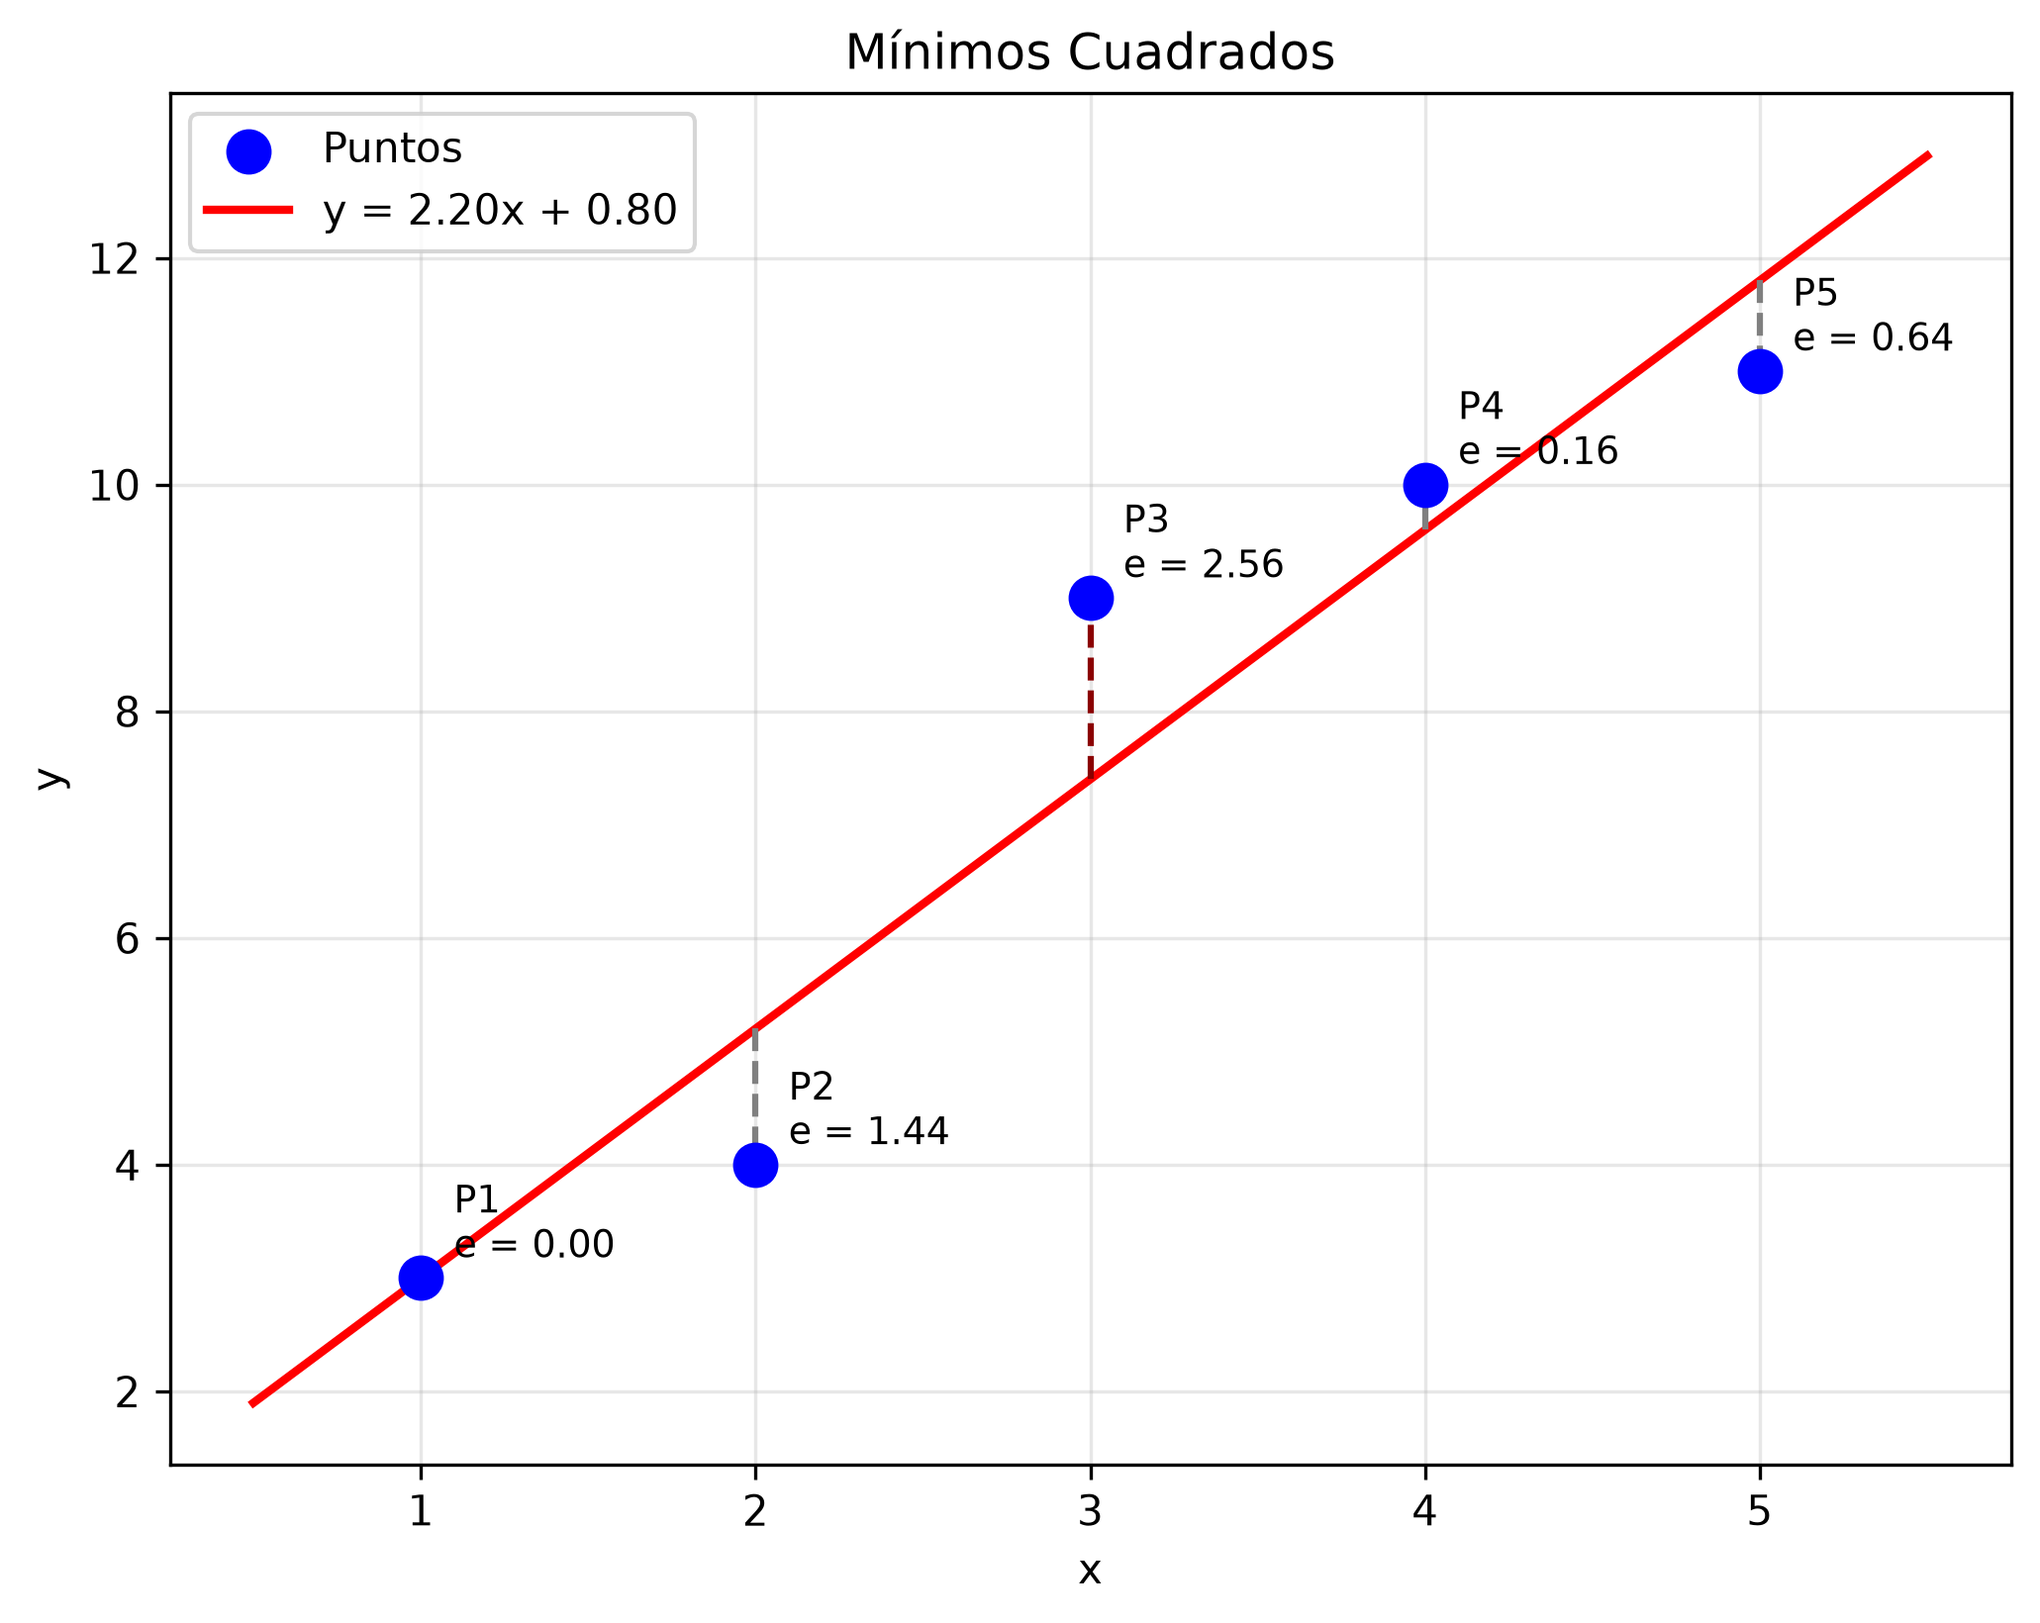
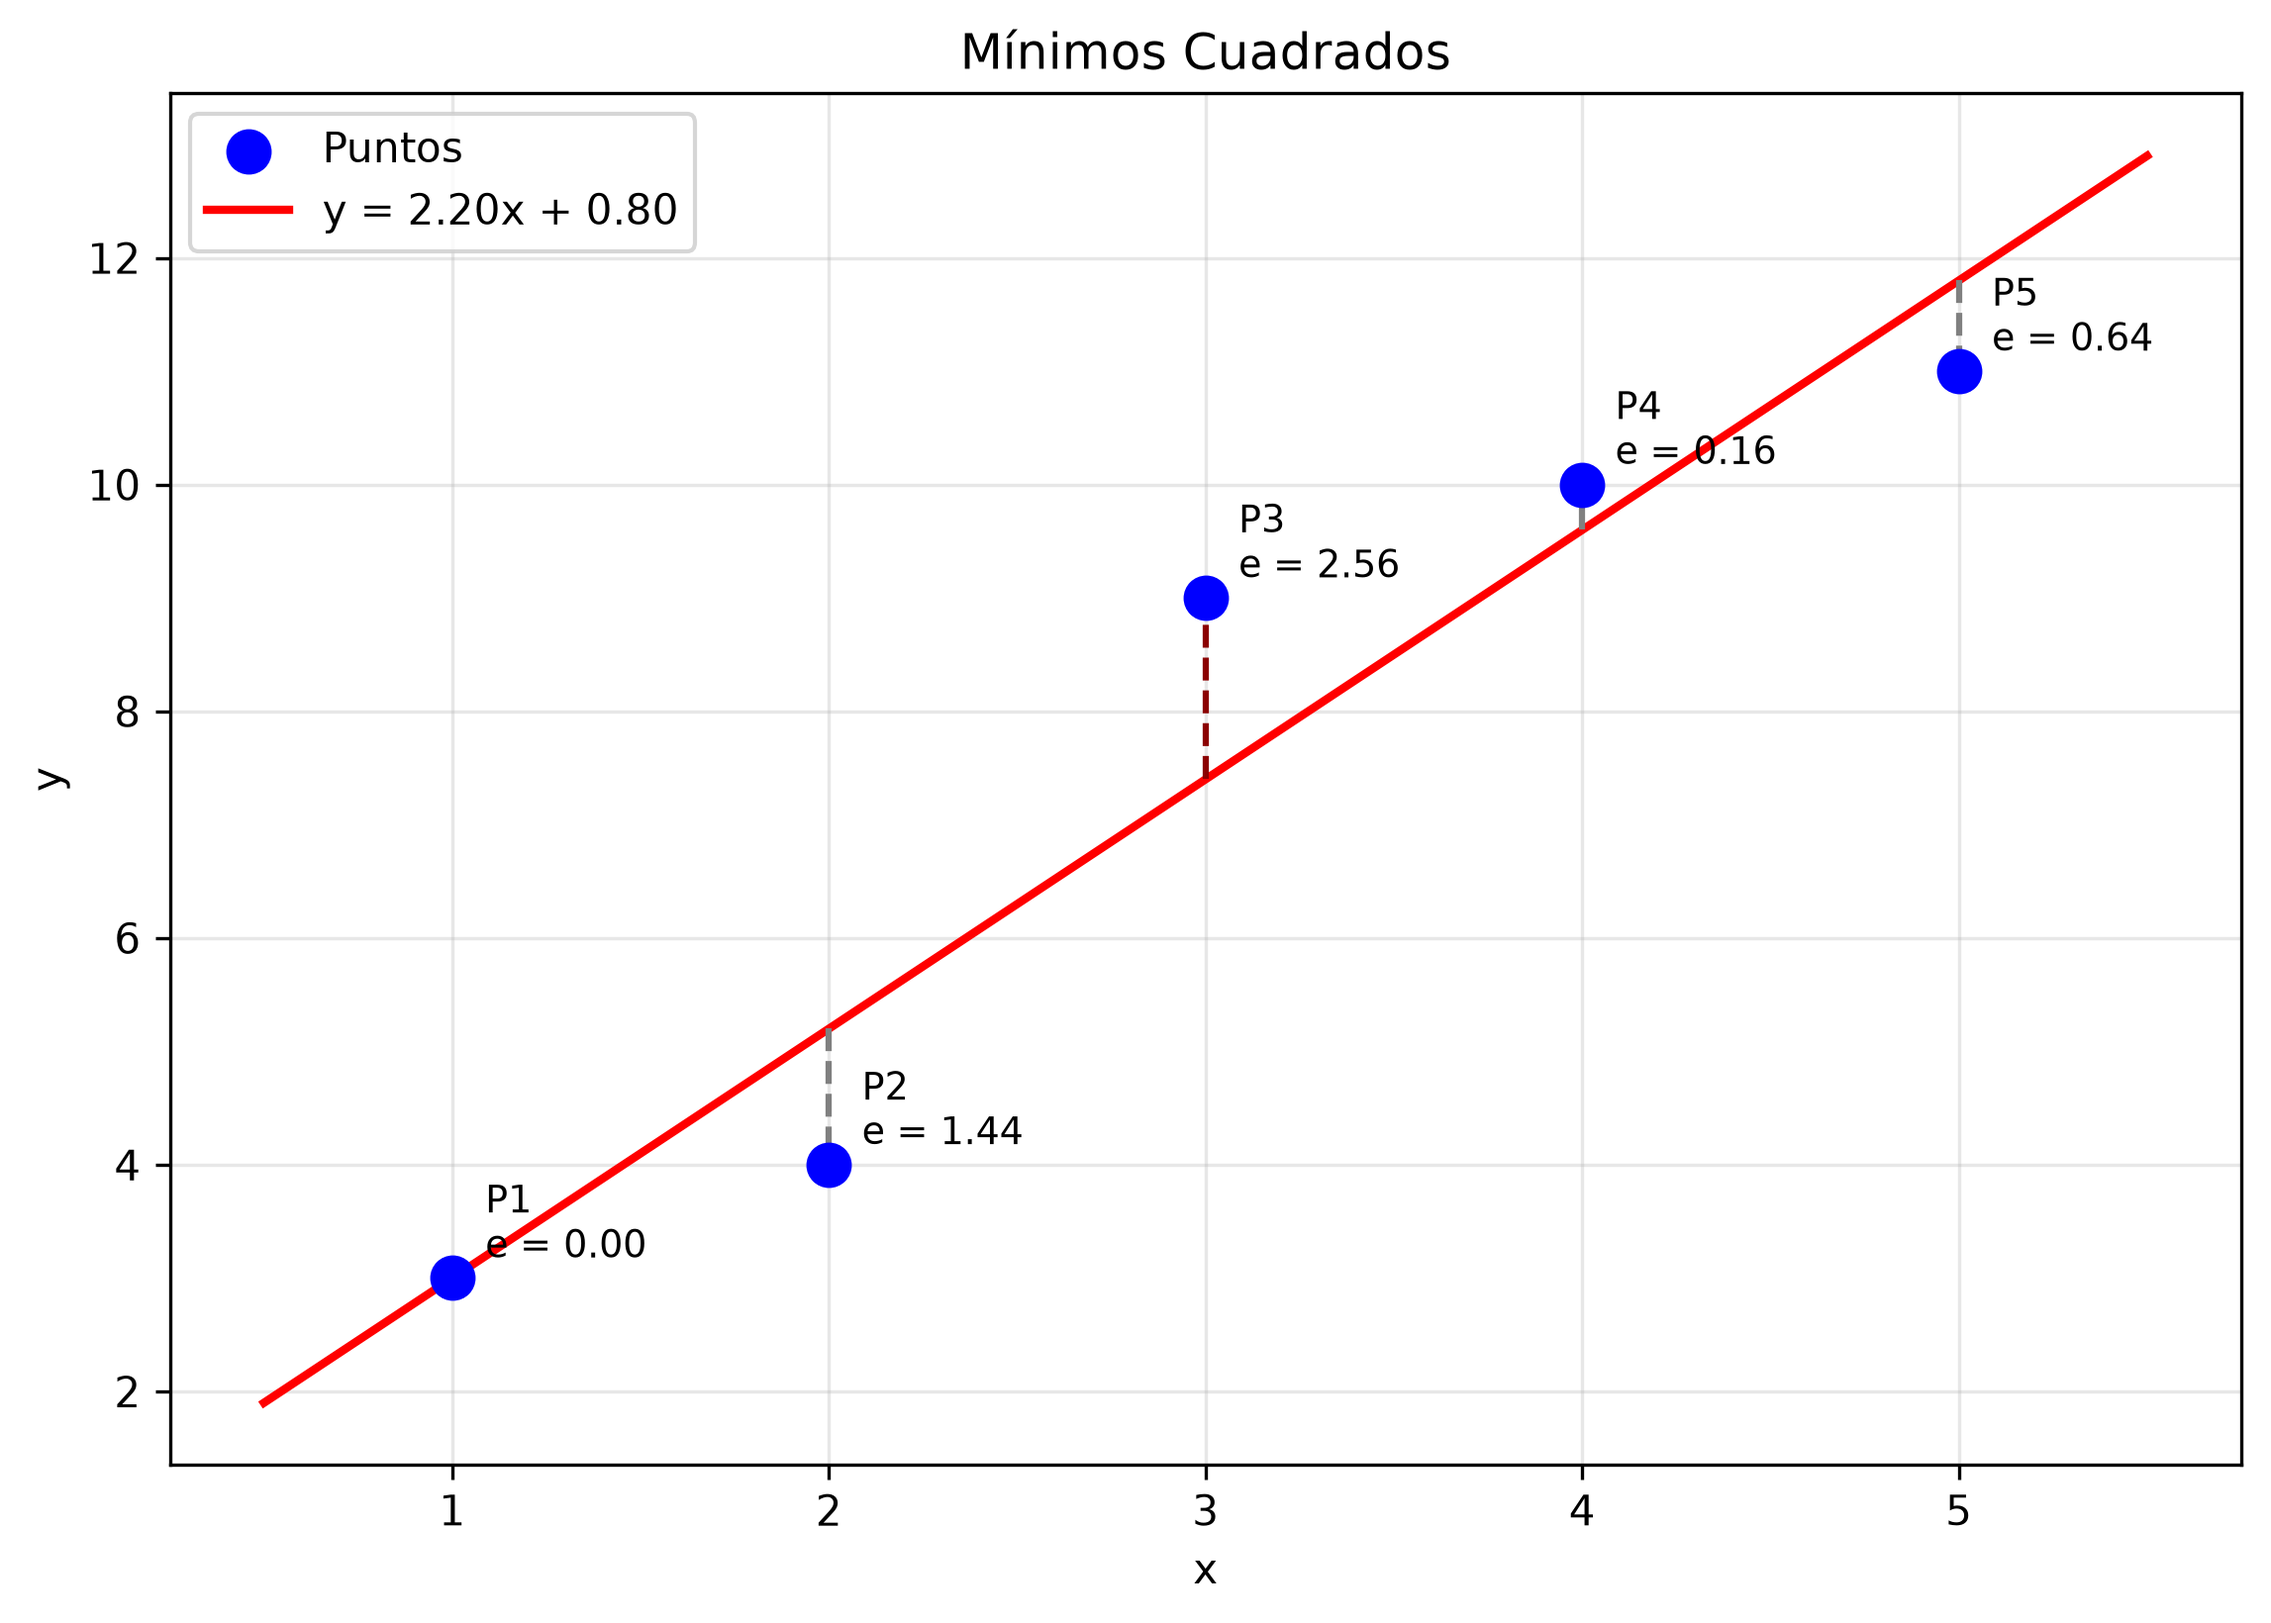
Actualizar prueba

diff --git a/solver2.py b/solver2.py
@@ -17,6 +17,9 @@ datos = np.array([
     [5, 11]
 ])
 
+x = datos[:, 0]  # x = [1,2,3,4,5]
+y = datos[:, 1]  # y = [3,4,9,10,11]
+
 # Vamos a generar una lista : [P1=1,P2=2,P3=3,P4=4,P5=5]
 posicion = list(range(1, len(datos) + 1)) 
 
@@ -25,12 +28,12 @@ ampl.get_set("PUNTOS").set_values(posicion)
 # A partir de un diccionario {1:1, 2:2, 3:3, 4:4, 5:5}, le vamos asignar los PUNTOS
 # a la variable x: 
 # x[1] = 1, x[2] = 2, ...
-ampl.get_parameter("x").set_values(dict(zip(posicion, datos[:, 0])))
+ampl.get_parameter("x").set_values(dict(zip(posicion, x)))
 # Lo mismo que el paso anterior pero ahora con el diccionario 
 #                     {1:3, 2:4, 3:9, 4:10, 5:11}
 # se lo asignamos a la variable y:
 # y[1] = 3, y[2] = 4, ...
-ampl.get_parameter("y").set_values(dict(zip(posicion, datos[:, 1])))
+ampl.get_parameter("y").set_values(dict(zip(posicion, y)))
 # Resolvemos nuestro modelo4.mod usando el solver HIGHS
 ampl.set_option("solver", "highs")
 ampl.solve()
@@ -38,22 +41,22 @@ ampl.solve()
 # Recuperar los resultados del modelo4.mod
 m = ampl.get_variable("m").value()
 b = ampl.get_variable("b").value()
-error = ampl.get_variable("e").get_values().to_dict()
 
-E = max(error.values())
+# Error máximo
+res = y - (m * x + b)
+E = np.max(np.abs(res))
+criticos = np.where(np.isclose(np.abs(res), E, atol=1e-6))[0]
 
 print("\n--- RESULTADOS ---")
 print(f"m: {m:.4f}")
 print(f"b: {b:.4f}")
 print(f"y = {m:.4f}x + {b:.4f}")
 print(f"E: {E:.4f}")
+print("Puntos con error máximo (x):", x[criticos])
 
 '''
     Gráfica del ajuste de la recta (estilo modelo 4)
 '''
-
-x = datos[:, 0]  # x = [1,2,3,4,5]
-y = datos[:, 1]  # y = [3,4,9,10,11]
 
 # Genera 200 valores distribuidos uniformemente entre 0.5 y 5.5
 x_line = np.linspace(x.min() - 0.5, x.max() + 0.5, 200)
@@ -70,53 +73,27 @@ ax.plot(x_line, y_line, color='red', linewidth=2.5,
 ax.scatter(x, y, color='blue', s=120, zorder=5,
            edgecolors='black', linewidth=1.2, label='Puntos')
 
-# Candidatos a puntos con error máximo
-candidatos = [i for i, e in error.items() if abs(e - E) < 1e-6]
+# Los puntos con error máximo 
+for k in criticos:
+    yk_recta = m * x[k] + b
+    ax.scatter([x[k]], [y[k]], s=400, facecolors='none',
+               edgecolors='#8B0000', linewidth=3.5, zorder=6)
+    ax.plot([x[k], x[k]], [yk_recta, y[k]], color='#8B0000',
+            linestyle=(0, (4, 3)), linewidth=2.2, zorder=2)
 
-# Elegir el candidato que tenga error positivo
-candidatos_pos = [i for i in candidatos if (m * x[i-1] + b - y[i-1]) > 0]
-
-# Elegir el primero positivo, sino el primero de todos
-if candidatos_pos:
-    i_critico = candidatos_pos[0]
-else:
-    i_critico = candidatos[0]
-
-# Posición del error máximo
-xi = x[i_critico - 1]
-yi = y[i_critico - 1]
-yi_recta = m * xi + b
-
-# Resaltar el error máximo con un círculo
-ax.scatter([xi], [yi], s=400, facecolors='none',
-           edgecolors='#8B0000', linewidth=3.5, zorder=6)
-
-# Línea punteada del error máximo (en rojo)
-ax.plot([xi, xi], [yi_recta, yi], color='#8B0000',
-        linestyle=(0, (4, 3)), linewidth=2.2, zorder=2)
-
-# Punto medio de la línea punteada
-y_medio = (yi + yi_recta) / 2
-
-# Marcar el error máximo
+# Etiquetas para el error máximo
+k = criticos[0]
+y_medio = (y[k] + m * x[k] + b) / 2
 ax.annotate(f'E = {E:.3f}',
-            xy=(xi, y_medio),
-            xytext=(xi + 0.45, y_medio),
-            fontsize=13,
-            color='white',
-            fontweight='bold',
-            va='center',
-            ha='left',
+            xy=(x[k], y_medio),
+            xytext=(x[k] + 0.45, y_medio),
+            fontsize=13, color='white', fontweight='bold',
+            va='center', ha='left',
             bbox=dict(boxstyle='round,pad=0.5',
-                      facecolor='#8B0000',
-                      edgecolor='#5C0000',
-                      linewidth=1.5,
-                      alpha=1.0),
-            arrowprops=dict(arrowstyle='-|>',
-                            color='#8B0000',
-                            linewidth=2.5,
-                            shrinkA=0,
-                            shrinkB=8,
+                      facecolor='#8B0000', edgecolor='#5C0000',
+                      linewidth=1.5),
+            arrowprops=dict(arrowstyle='-|>', color='#8B0000',
+                            linewidth=2.5, shrinkA=0, shrinkB=8,
                             mutation_scale=20))
 
 ax.set_xlabel('x')

diff --git a/minimos_cuadrados.py b/minimos_cuadrados.py
@@ -26,22 +26,29 @@ b = (sum_y - m * sum_x) / n
 # Predicción
 y_pred = m * x + b
 
+# Error por cada punto
+error = np.abs(y - y_pred  ) ** 2     
+i_max = np.argmax(error)  # índice del error máximo
+
 print(f"\nEcuación ajustada: y = {m:.4f}x + {b:.4f}")
 
-# --- Gráfica ---
-plt.figure(figsize=(8, 6))
-plt.scatter(x, y, color='blue', s=100, zorder=3, label='Puntos')
+fig, ax = plt.subplots(figsize=(9, 6))
+
+ax.scatter(x, y, color='blue', s=100, zorder=3, label='Puntos')
 
 # Línea de ajuste
 x_line = np.linspace(x.min() - 0.5, x.max() + 0.5, 100)
 y_line = m * x_line + b
-plt.plot(x_line, y_line, color='red', linewidth=2,
-         label=f'y = {m:.2f}x + {b:.2f}')
+ax.plot(x_line, y_line, color='red', linewidth=2,
+        label=f'y = {m:.2f}x + {b:.2f}')
 
-# Etiquetar cada punto
+# Etiquetar cada punto y su error
 for i in range(n):
-    plt.annotate(f'P{i+1}', (x[i], y[i]),
-                 textcoords="offset points", xytext=(8, 5), fontsize=9)
+    color = '#8B0000' if i == i_max else 'gray'
+    ax.plot([x[i], x[i]], [y_pred[i], y[i]], color=color,
+            linestyle='--', linewidth=1.5, zorder=2)
+    ax.annotate(f'P{i+1}\ne = {error[i]:.2f}', (x[i], y[i]),
+                textcoords="offset points", xytext=(8, 5), fontsize=9)
 
 plt.xlabel('x')
 plt.ylabel('y')
@@ -49,5 +56,5 @@ plt.title('Mínimos Cuadrados')
 plt.legend()
 plt.grid(True, alpha=0.3)
 
-plt.savefig('grafica_min.png', dpi=300, bbox_inches='tight')
+plt.savefig('prueba.png', dpi=300, bbox_inches='tight')
 print("Imagen guardada exitosamente como 'grafica_min.png'")
